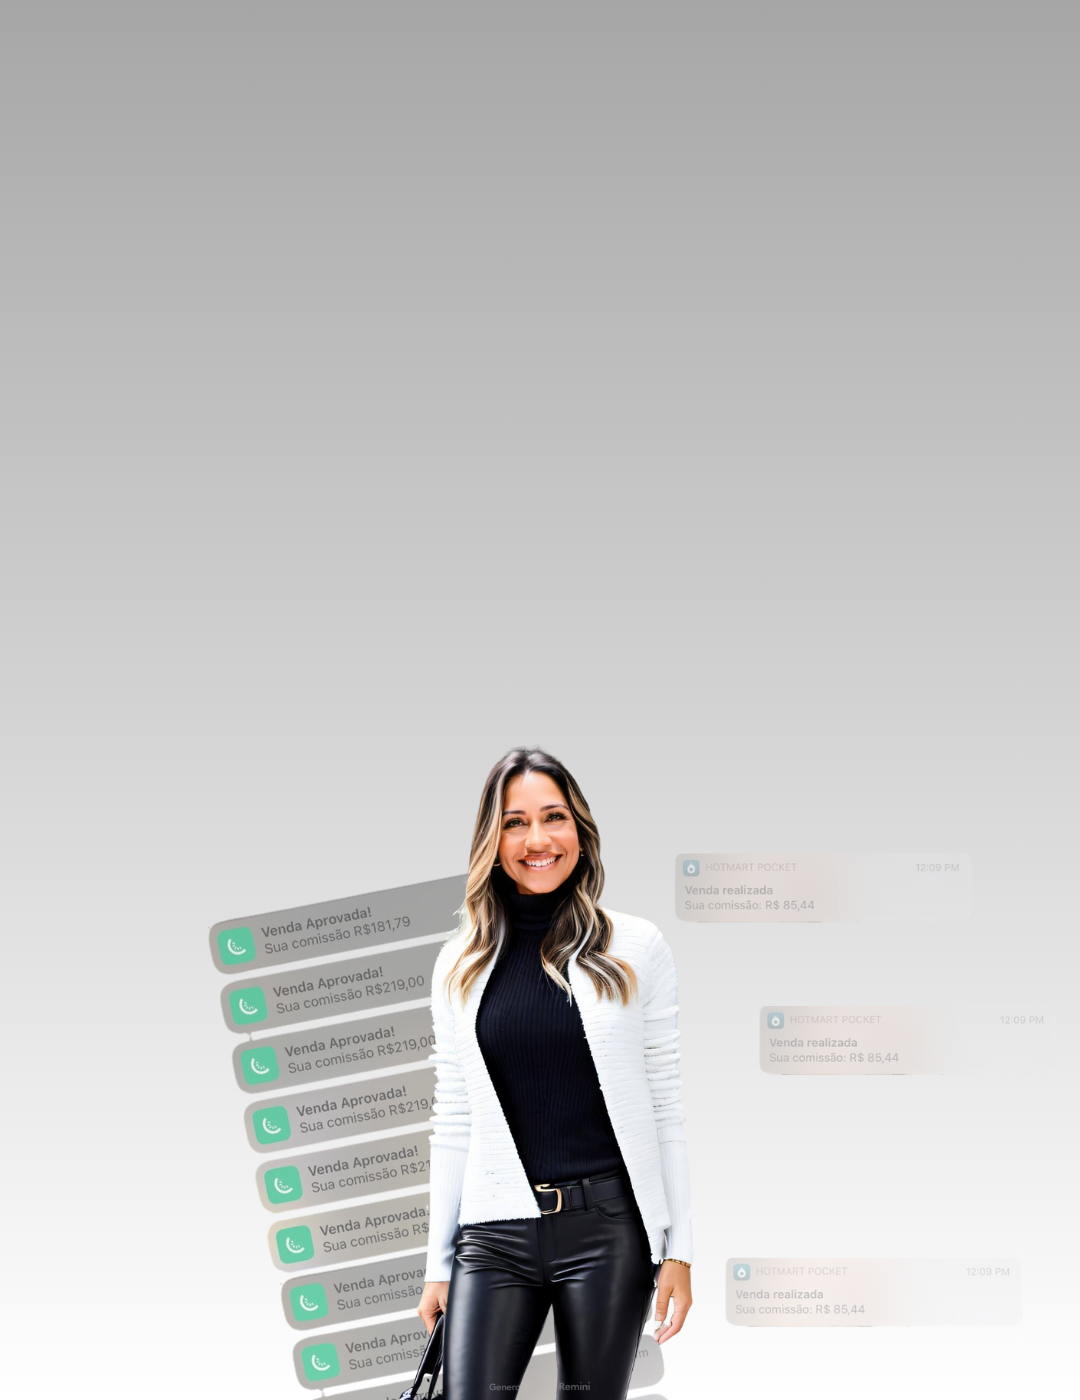
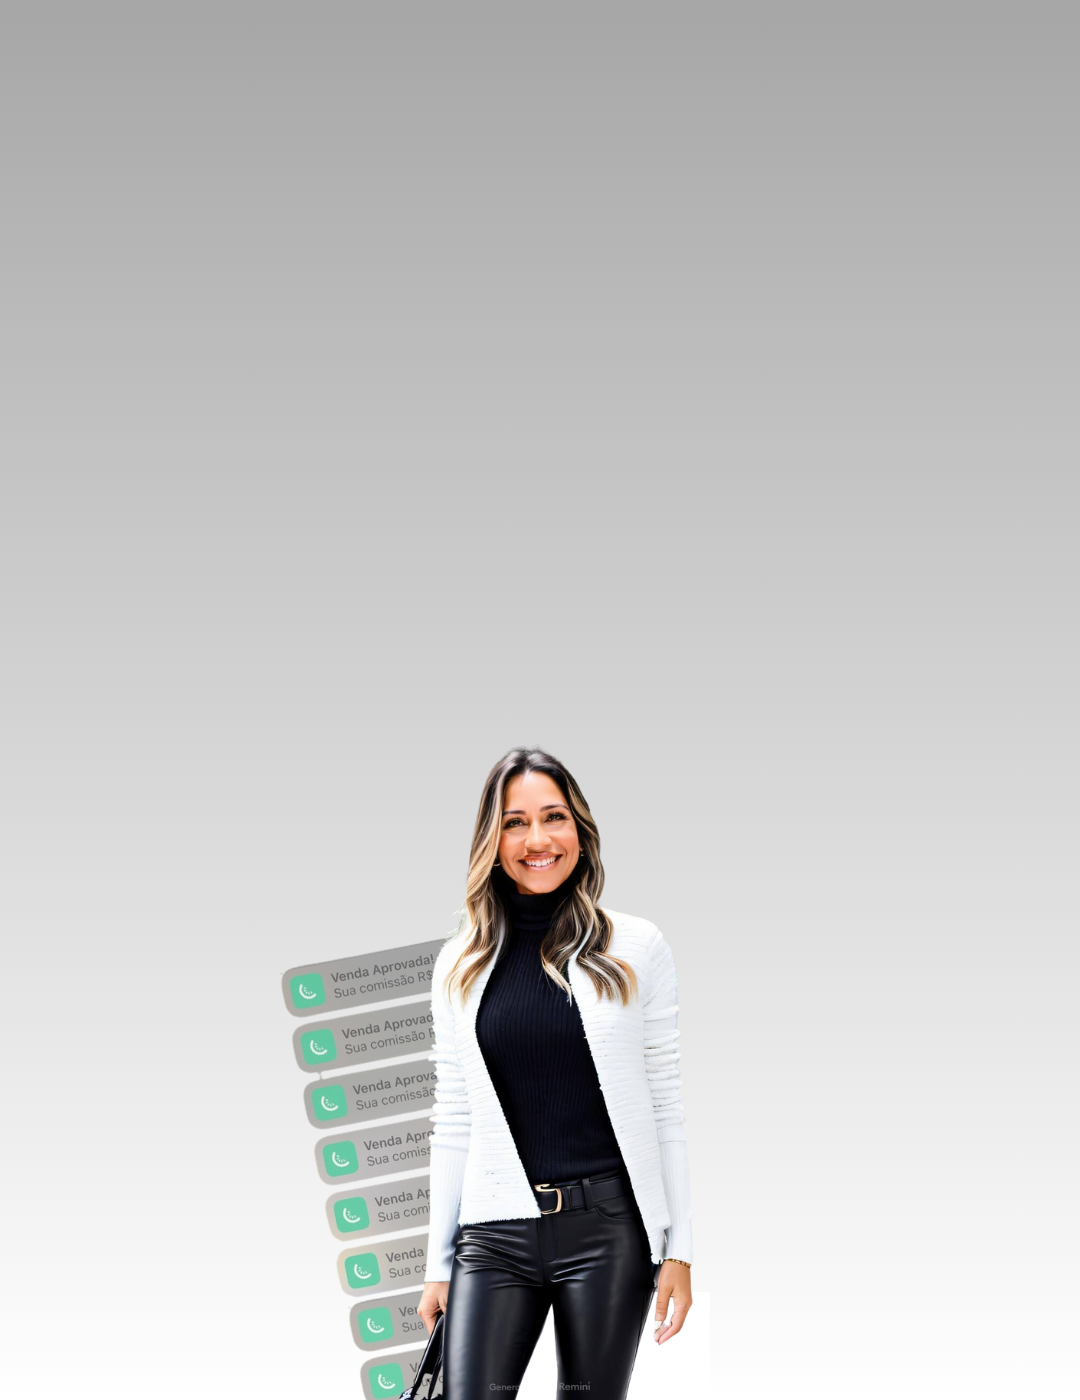
criando animação de flutuação para o icone de whatsapp, mudança de imagem de bottom

diff --git a/index.html b/index.html
@@ -14,9 +14,18 @@
 </head>
 
 <body>
+    <a href="#" class="whatsapp">
+        <svg xmlns="http://www.w3.org/2000/svg" width="60" height="60" fill="currentColor" class="bi bi-whatsapp"
+            viewBox="0 0 16 16">
+            <path
+                d="M13.601 2.326A7.85 7.85 0 0 0 7.994 0C3.627 0 .068 3.558.064 7.926c0 1.399.366 2.76 1.057 3.965L0 16l4.204-1.102a7.9 7.9 0 0 0 3.79.965h.004c4.368 0 7.926-3.558 7.93-7.93A7.9 7.9 0 0 0 13.6 2.326zM7.994 14.521a6.6 6.6 0 0 1-3.356-.92l-.24-.144-2.494.654.666-2.433-.156-.251a6.56 6.56 0 0 1-1.007-3.505c0-3.626 2.957-6.584 6.591-6.584a6.56 6.56 0 0 1 4.66 1.931 6.56 6.56 0 0 1 1.928 4.66c-.004 3.639-2.961 6.592-6.592 6.592m3.615-4.934c-.197-.099-1.17-.578-1.353-.646-.182-.065-.315-.099-.445.099-.133.197-.513.646-.627.775-.114.133-.232.148-.43.05-.197-.1-.836-.308-1.592-.985-.59-.525-.985-1.175-1.103-1.372-.114-.198-.011-.304.088-.403.087-.088.197-.232.296-.346.1-.114.133-.198.198-.33.065-.134.034-.248-.015-.347-.05-.099-.445-1.076-.612-1.47-.16-.389-.323-.335-.445-.34-.114-.007-.247-.007-.38-.007a.73.73 0 0 0-.529.247c-.182.198-.691.677-.691 1.654s.71 1.916.81 2.049c.098.133 1.394 2.132 3.383 2.992.47.205.84.326 1.129.418.475.152.904.129 1.246.08.38-.058 1.171-.48 1.338-.943.164-.464.164-.86.114-.943-.049-.084-.182-.133-.38-.232" />
+        </svg>
+    </a>
+
+
     <div class="offer-banner">
         <i class="bi bi-whatsapp"></i>
-         <p>Oferta especial de lançamento</p>
+        <p>Oferta especial de lançamento</p>
         <i class="bi bi-whatsapp"></i>
     </div>
     <div class="container first">
@@ -24,7 +33,7 @@
             <img src="./assets/images/logo.png" alt="">
             <p>A nova tendência do mercado digital que vai colocar <span class="highlight">DINHEIRO NO SEU BOLSO</span>
                 em 2024</p>
-            <a href="#" class="cta-button">QUERO ENTRAR NO GRUPO   <i class="bi bi-whatsapp"></i></a>
+            <a href="#" class="cta-button">QUERO ENTRAR NO GRUPO <i class="bi bi-whatsapp"></i></a>
         </div>
     </div>
 </body>

diff --git a/assets/css/style.css b/assets/css/style.css
@@ -8,11 +8,32 @@ body {
     font-family: "poppins", "sans-serif";
 }
 
+@keyframes float{
+	0%,100%{
+		transform:translatey(0)
+	}
+	50%{
+		transform:translatey(-10px)
+	}
+}
+
+.whatsapp{
+    background-color: white;
+    border-radius: 50%;
+    color: #29a319;
+    position: fixed;
+    bottom: 0;
+    right: 0;
+    margin: 10px;
+    z-index: 999;
+    animation: float 2s ease-in-out infinite;
+}
+
 .container {
     display: flex;
     min-height: 100vh;
     background-size: cover;
-    background-position: top;
+    background-position: top; 
 }
 
 .first {
@@ -150,7 +171,7 @@ p {
     }
     
     .first {
-        background-image: url("../images/rIcaMobile2.png");
+        background-image: url("../images/rIcaMobile.png");
         display: flex;
         justify-content: start;
         align-items: start;
